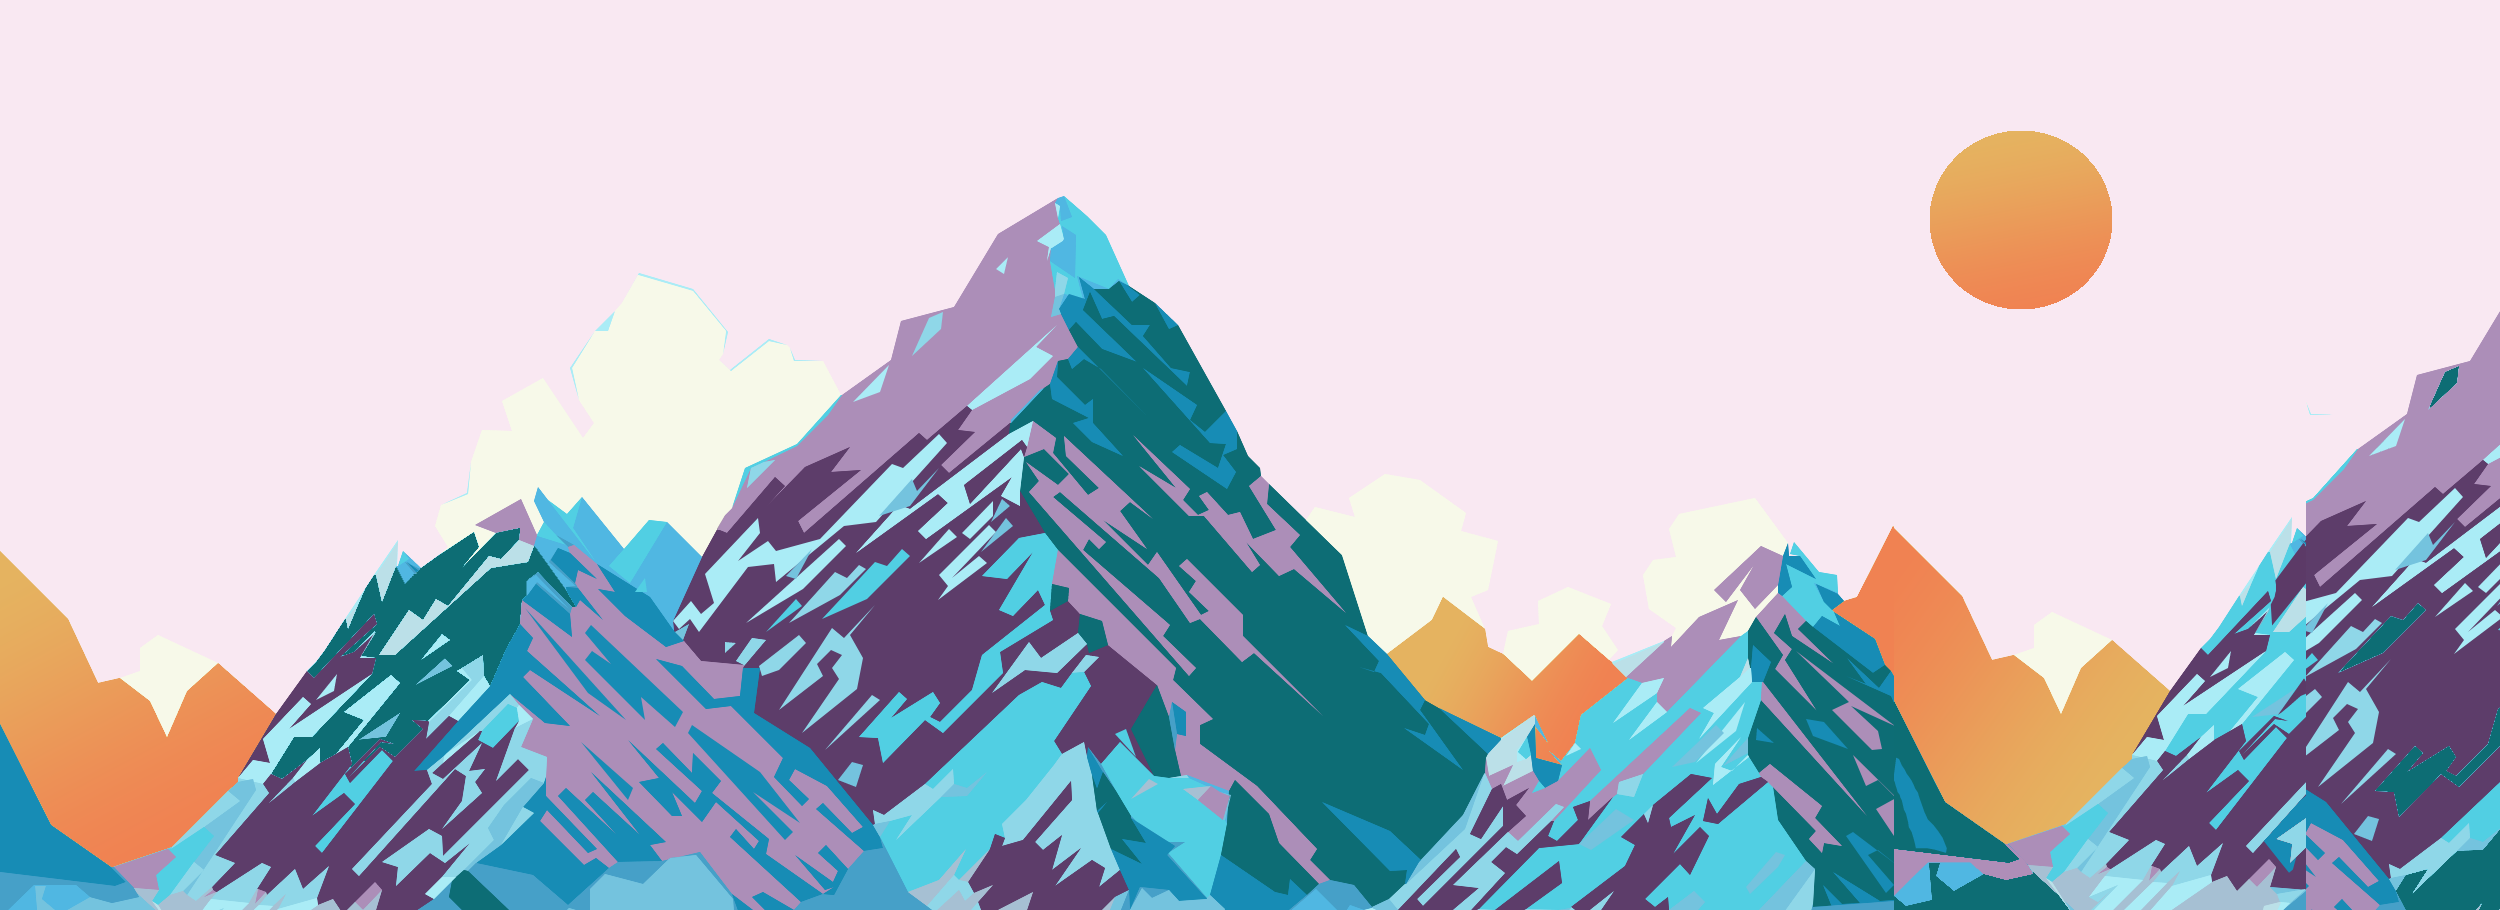
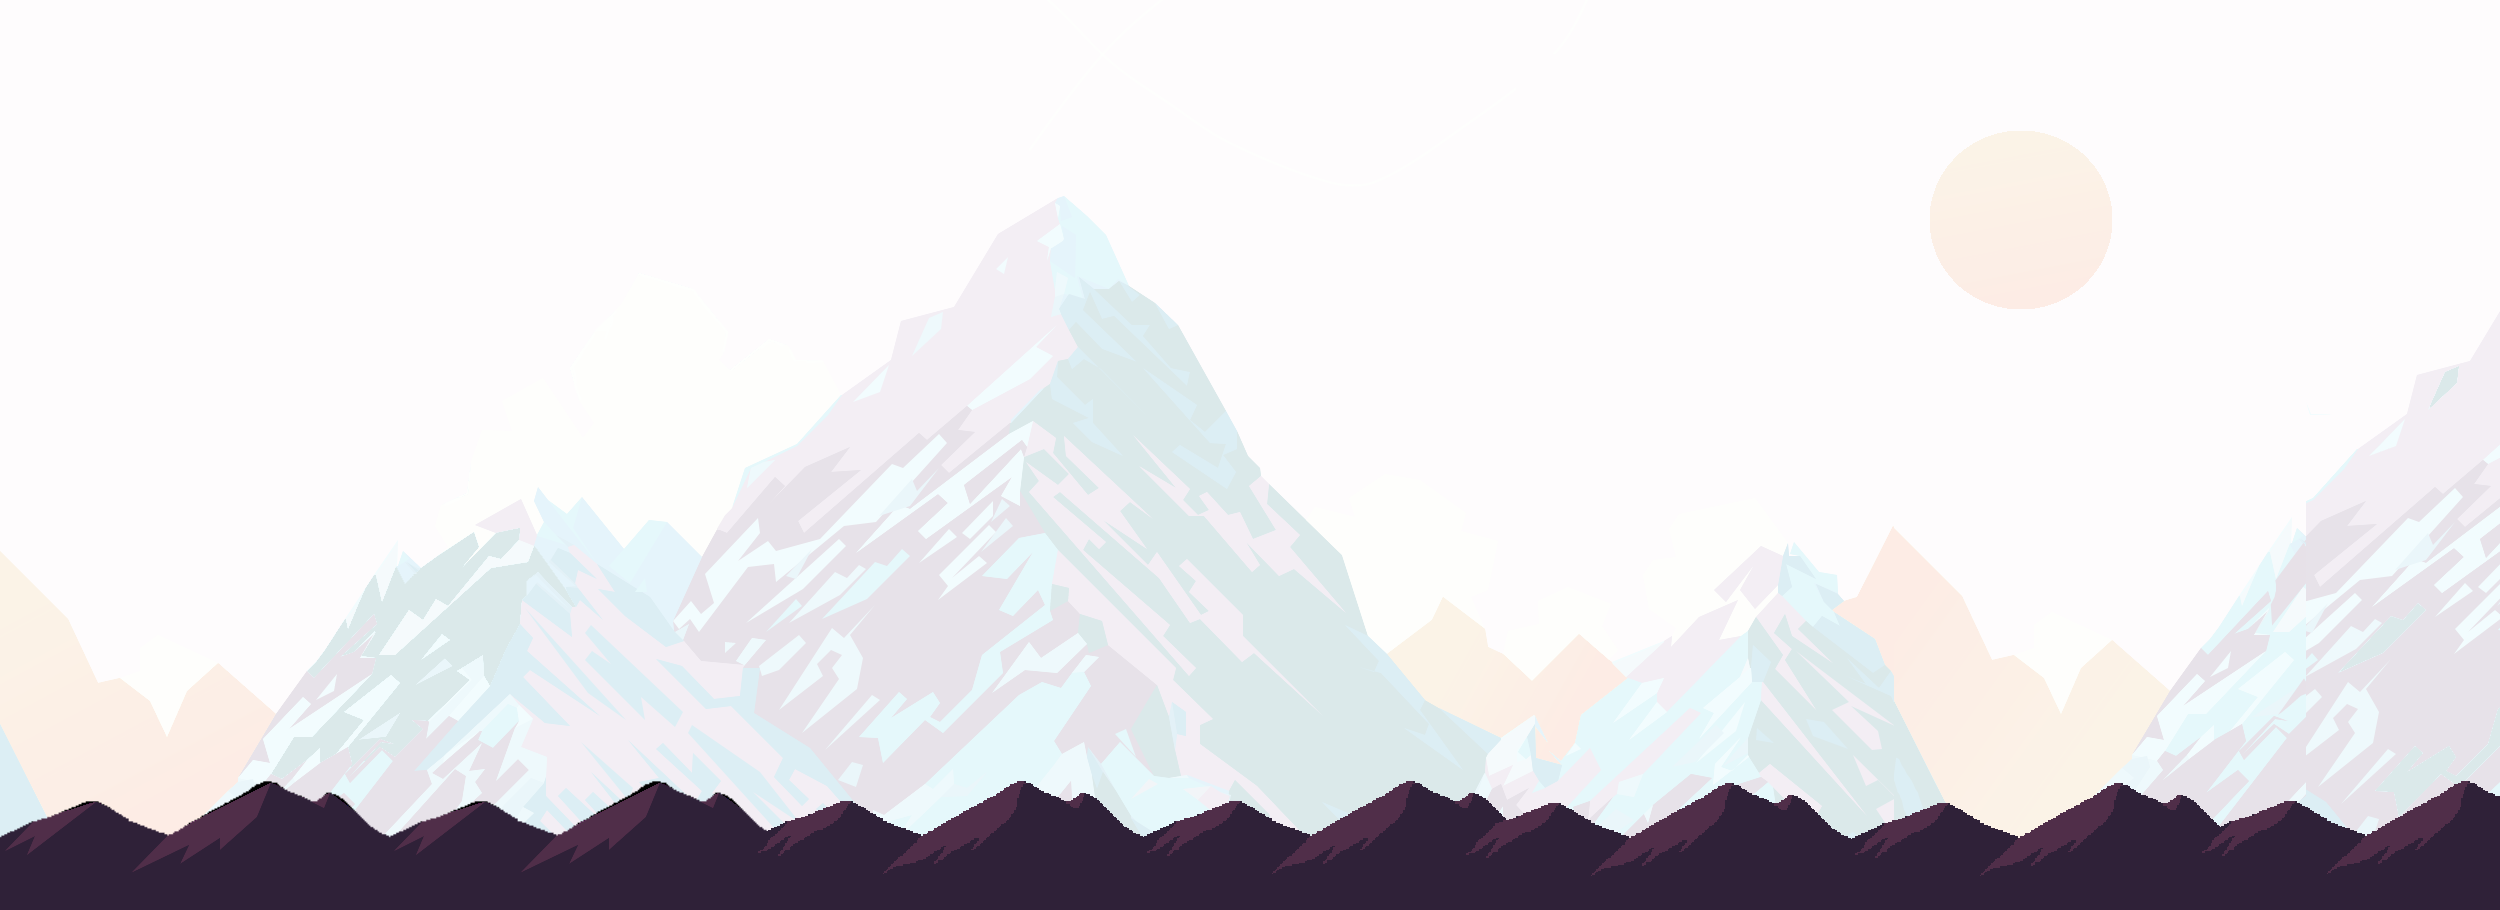
UI
new push changes:
- fixed the spacing of the water
- fixed the spacing of the ladder
- red health and coin bar
- added controls to the screen (gamemanager.py)

diff --git a/scenes/levels/level_1.py b/scenes/levels/level_1.py
@@ -2,15 +2,16 @@ from game_templates import level
 
 
 def create_level(my_toolbox):
+    # create level_1 object and load the images for tiles
     level1 = level.Level(my_toolbox, 1, 5100, 5000, background="mountains")
     level1.load_water_img()
     level1.load_stone_imgs()
 
     # add four walls
-    level1.add_platform(position=(0, 0), dimensions=(71, 1080), facing_direction="right")  # left wall
-    level1.add_platform((5100 - 70, 0), (70, 1080), facing_direction="left")  # right wall
-    level1.add_platform((0, 1080 - 70), (1700, 70))  # bottom wall part 1
-    level1.add_platform((0, 0), (5100, 140), facing_direction="down")  # top wall
+    level1.add_platform(position=(0, 0), dimensions=(71, 1080), facing_direction="right")       # left wall
+    level1.add_platform((5100 - 70, 0), (70, 1080), facing_direction="left")                    # right wall
+    level1.add_platform((0, 1080 - 70), (1700, 70))                                             # bottom wall part 1
+    level1.add_platform((0, 0), (5100, 140), facing_direction="down")                           # top wall
 
     # fix the corners
     level1.add_platform((-10, 70), (70, 70), facing_direction=None)
@@ -24,29 +25,30 @@ def create_level(my_toolbox):
     level1.add_obstacle(1080, 600, "coin")  # coin 1
 
     # gate leading to after the first coin
-    level1.add_obstacle(1265, 1000, 'button', fence_initial=(1450, 780), fence_final=(1450, 540),
+    level1.add_obstacle(1265, 1000, 'button', fence_initial=(1458, 780), fence_final=(1458, 540),
                         fence_dimensions=(200, 500))
 
     # block to cover off the gate top
     level1.add_platform((1350, 130), (215, 500), facing_direction="all")
 
     # platforming water section
-    level1.add_platform((1700, 1040), (500, 70), platform_type="water")
+    level1.add_platform((1700, 1015), (500, 70), platform_type="water")
     level1.add_platform((2200, 1010), (200, 70), facing_direction="up")
-    level1.add_platform((2400, 1040), (500, 70), platform_type="water")
+    level1.add_platform((2400, 1015), (500, 70), platform_type="water")
     level1.add_platform((2900, 810), (2200, 270), facing_direction="up")
 
+    # add section of moving platforms
     level1.add_moving_platform((1750, 850), (250, 70), 5, (2000, 850))
     level1.add_moving_platform((2450, 850), (250, 70), 5, (2600, 850))
 
     # gate ending water platforming
     level1.add_obstacle(3060, 800, "button", fence_initial=(3300, 620), fence_final=(3300, 400), fence_dimensions=(150, 400))
 
-
     # Demon fight pit section
     level1.add_demon([4120, 780], (800,500))
     level1.add_moving_platform((3400, 400), (275, 50), 10, (4000, 650))
     level1.add_moving_platform((4200, 650), (175, 50), 10, (4600, 300))
+
 
     level1.add_platform((4800, 300), (200, 50), facing_direction="up")
     level1.add_obstacle(4900, 250, 'coin')
@@ -56,9 +58,11 @@ def create_level(my_toolbox):
     level1.add_platform((2800, 400), (600, 50), facing_direction="up")
     level1.add_platform((2200, 400), (400, 50), facing_direction='up')
 
+    # add demon and coin
     level1.add_demon([2400, 380], (100,100))
     level1.add_obstacle(2400, 200, 'coin')
 
+    # add the torigate
     level1.add_platform((1560, 400), (350,50), facing_direction="up")
     level1.add_obstacle(1650, 380, "torigate") # end of the level marker
 

diff --git a/drivers/game_manager.py b/drivers/game_manager.py
@@ -33,8 +33,9 @@ class GameManager:
         # Loading background image
         self.mountain_background = pygame.transform.scale(
         #    pygame.image.load("images/backgrounds/mountains/parallax-mountain-bg-reduced.png").convert_alpha(), (1920, 1080))
-            pygame.image.load("images/backgrounds/level_1_bkgnd_lightest.png").convert_alpha(), (1920, 915))
+            pygame.image.load("images/backgrounds/level_1_bkgnd.png").convert_alpha(), (1920, 915))
         #self.far_mountains = pygame.image.load("images/backgrounds/mountains/parallax-mountain-mountains-reduced.png").convert_alpha()
+        self.controls = pygame.image.load("images/game_ui/controls.png").convert_alpha()
 
     '''
     Purpose: While the GameManager object is running, the main gameplay loop for the corresponding level occurs
@@ -135,6 +136,9 @@ class GameManager:
                 # Main Background
                 self.image.blit(self.mountain_background, (positional, 100))
                 self.image.blit(self.mountain_background, (1920 + positional, 100))
+
+                # add controls
+                self.image.blit(self.controls, (170, 200))
 
                 # Far Mountains
                 #self.image.blit(self.far_mountains, (-544 + positional, 850))

diff --git a/game_templates/level.py b/game_templates/level.py
@@ -84,7 +84,6 @@ class Level:
     def load_water_img(self):
         self.water_img = pygame.image.load("images/tiles/watertile.png").convert_alpha()
 
-
 class Platform:
     def __init__(self, position, dimensions, stone_imgs, water_img, platform_type, facing_direction, corners=False):
         self.width = dimensions[0]
